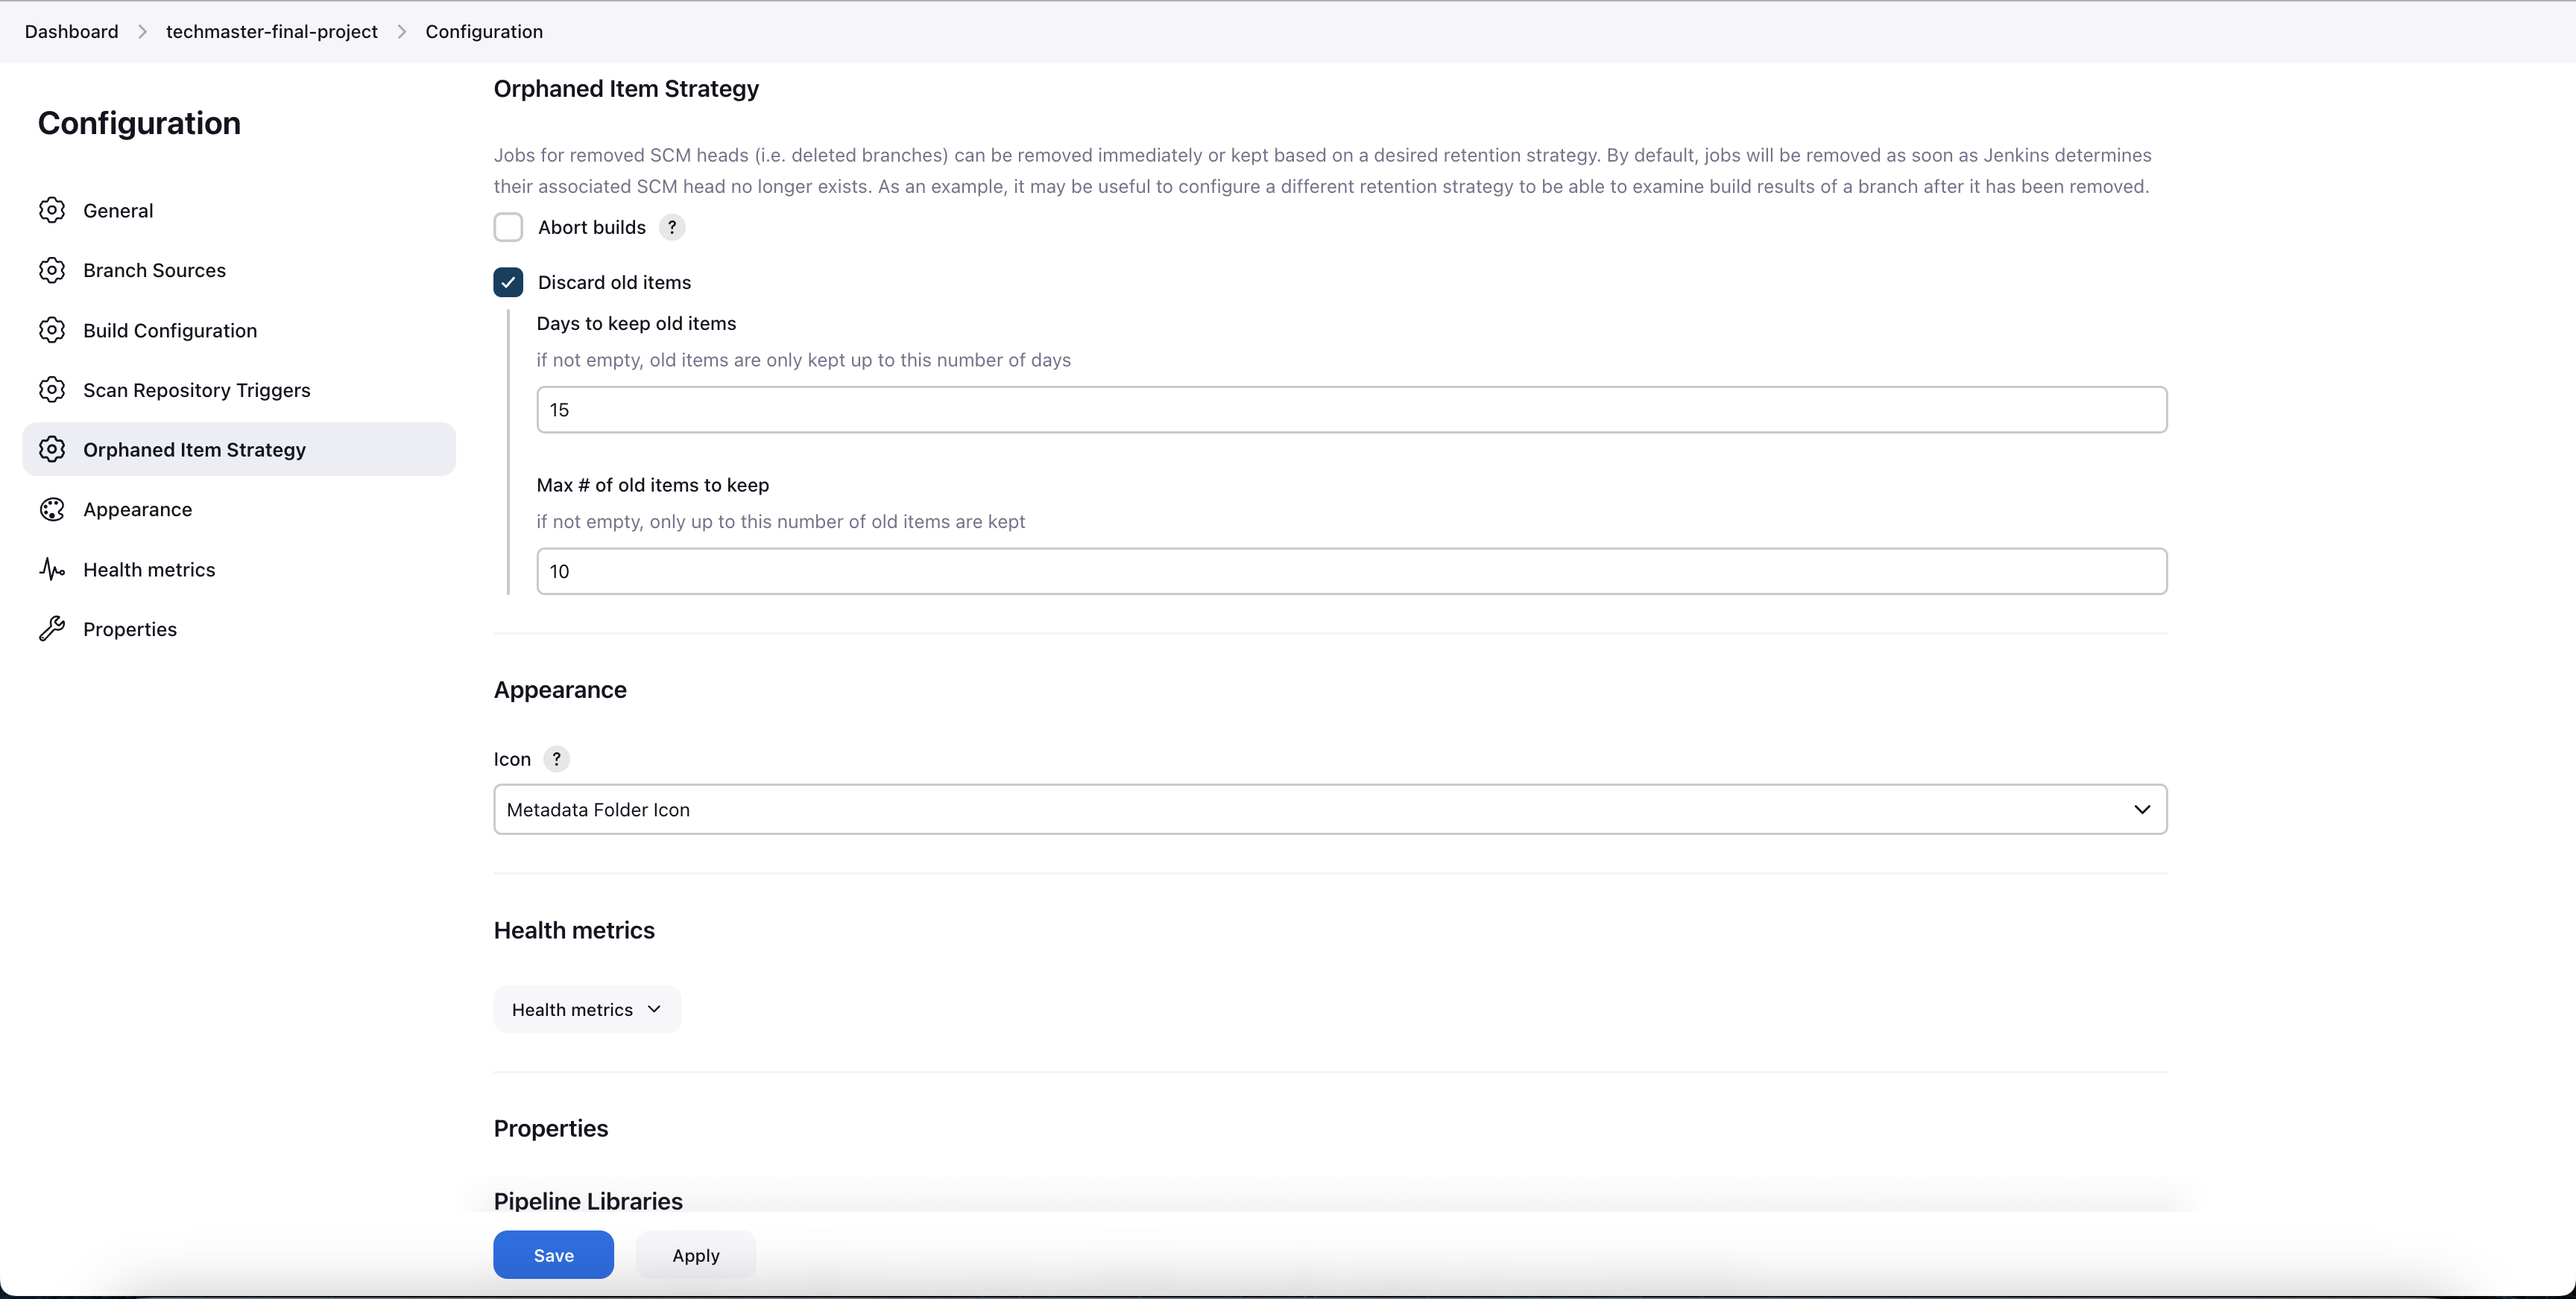
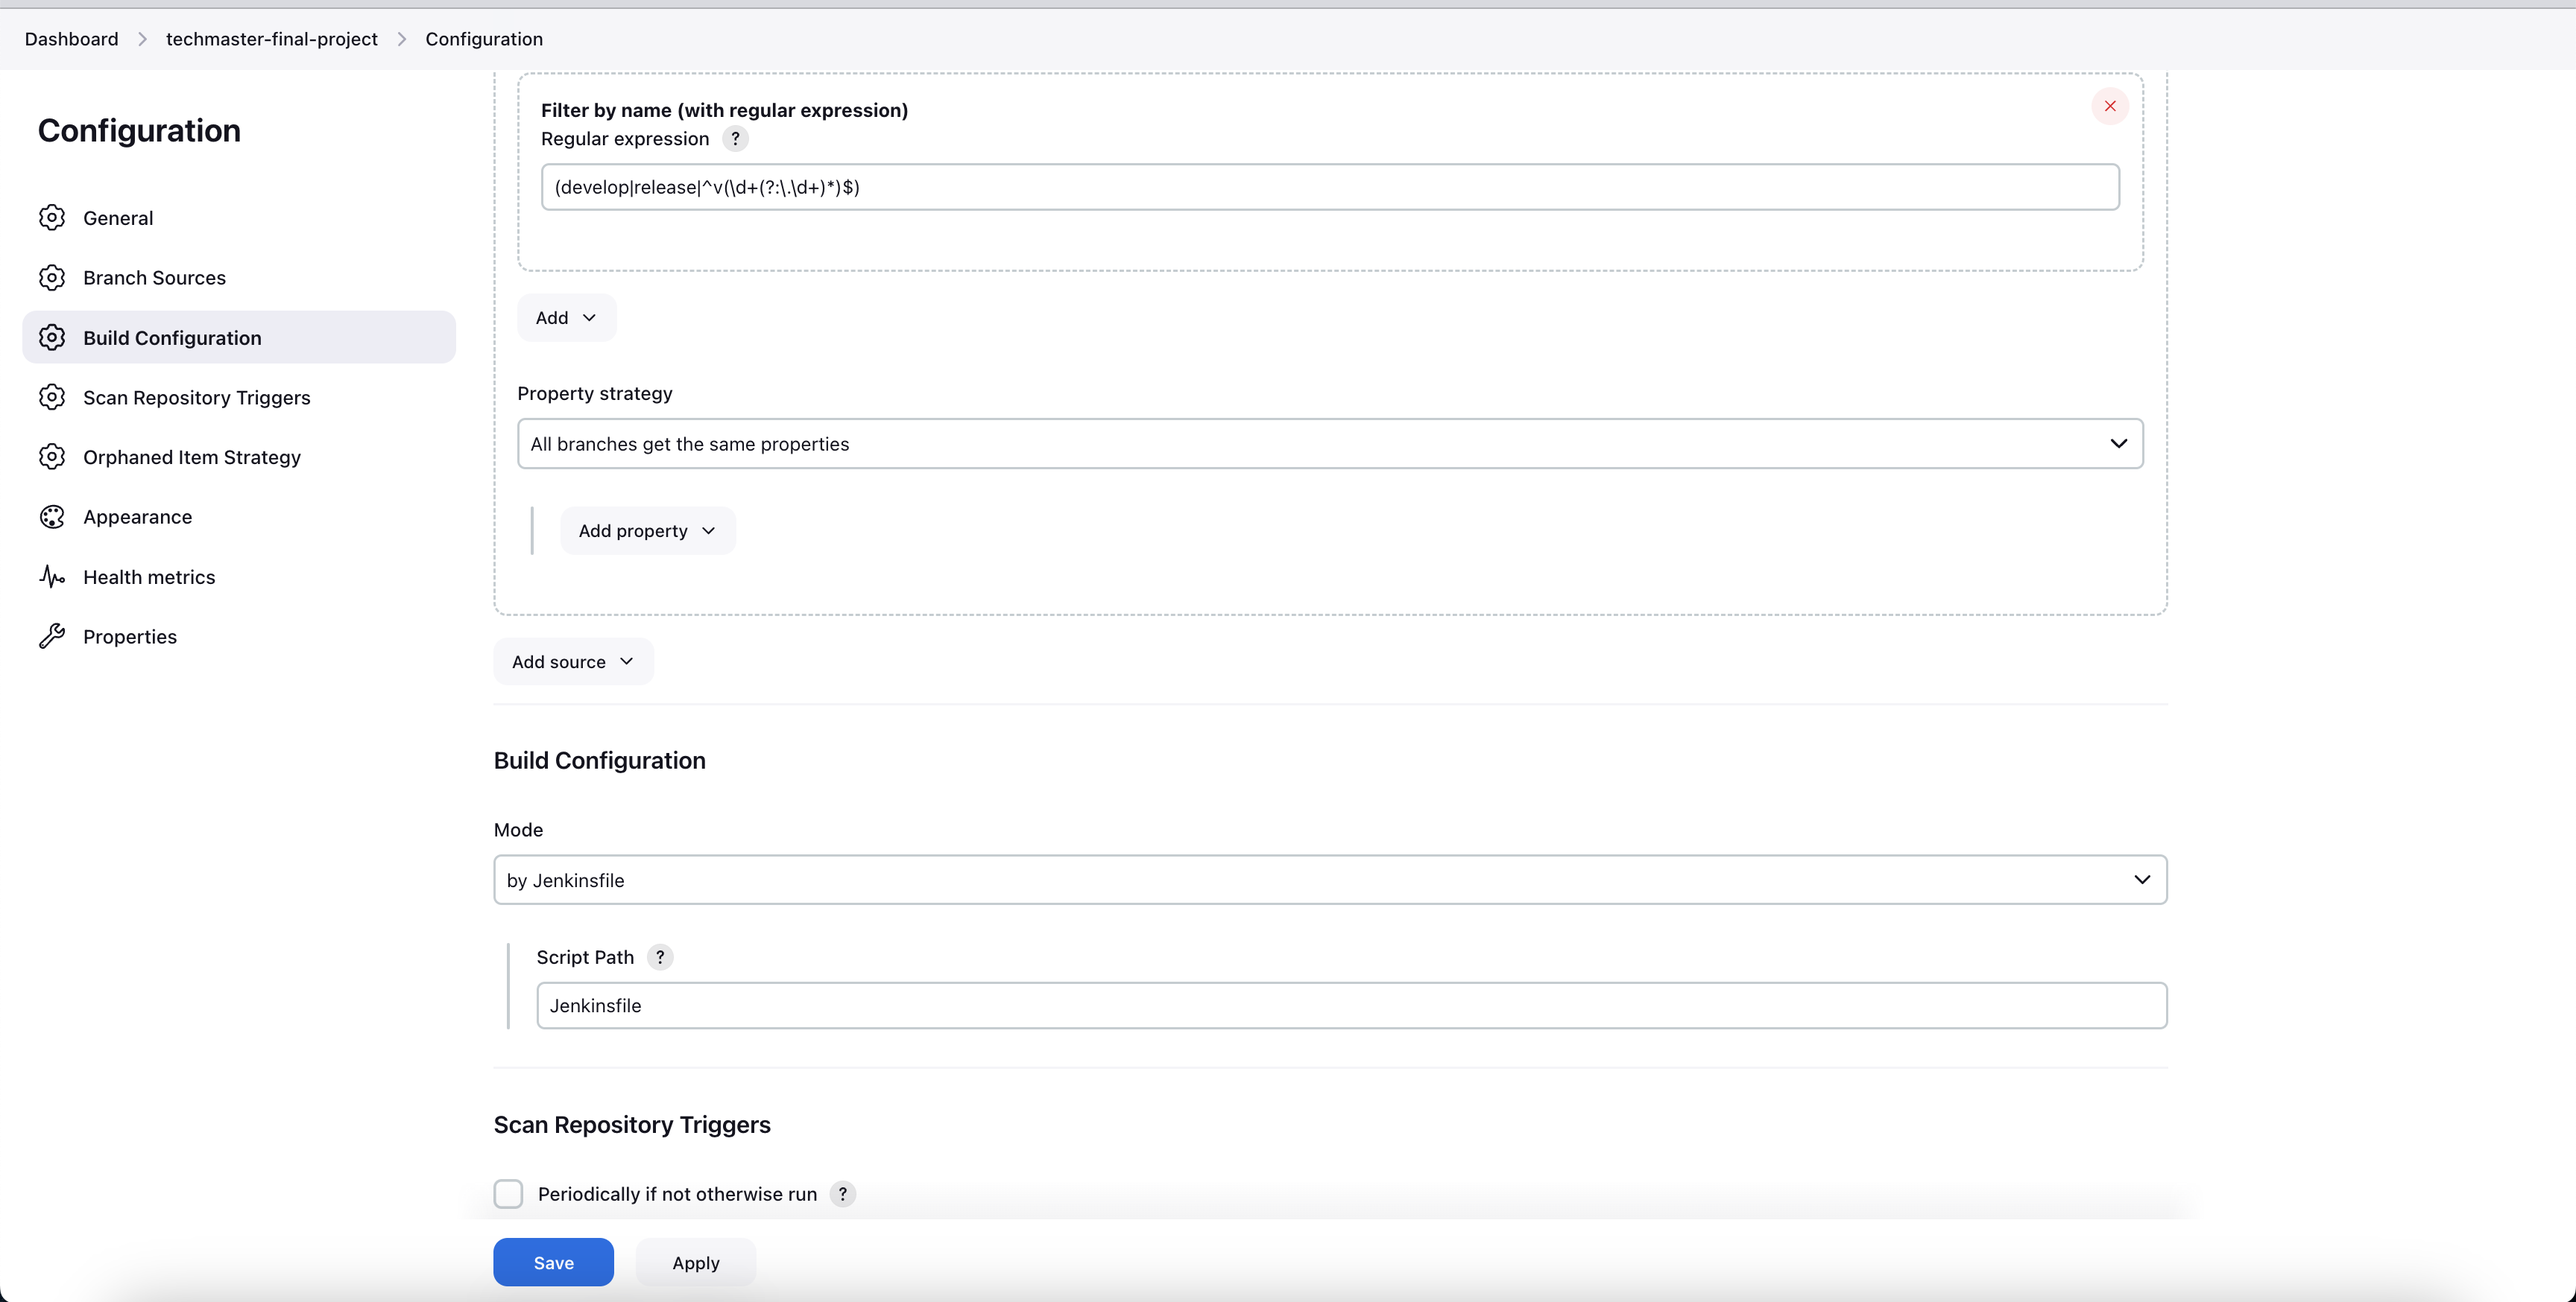
Update README and result images

diff --git a/README.md b/README.md
@@ -109,44 +109,63 @@
           - In the scopes section, we will select the whole "repo" scope and the "user:email" field in the "user" scope.
           ```
 
-3. **Jenkins Plugins**: We should install these necessary Jenkins plugins to easily support our in system operation.
-    ```
-    Instruction: http://<jenkins_server_ip>:8080 -> Jenkins Dashboard -> Manage Jenkins -> Manage Plugins -> Available tab.
-    Plugins:
-    1. Blue Ocean: Have a better visualization of pipelines, builds and deployments.
-    2. Pipeline Utility Steps: Provide utility steps for pipeline jobs.
-    3. Kubernetes CLI: Integrate K8S CLI with necessary commands to Jenkins.
-    ```
+3. **Jenkins Initial Admin Password**: We need to find out the initial admin password of Jenkins with following steps:
+   ```
+   Instruction
+   - Step 1: Connect to the CICD EC2 instance.
+   - Step 2: Run this command: 
+   $ docker exec -it jenkins-server /bin/sh -c "cat /var/jenkins_home/secrets/initialAdminPassword"
+   ```
 
-4. **Jenkins Credentials**: We need to add crucial credentials to Jenkins, which helps it have ability to deploy new
+4. **Jenkins Plugins**:
+    - Firstly, we need to install suggested plugins after loging in Jenkins with the initial admin password above.
+    - Secondly, we need to create a new admin account:
+      ```
+      Instruction:
+      - Username: admin
+      - Password: admin@123
+      - Full name: Admin
+      - Email: example@gmail.com
+      ```
+    - Besides installing suggested plugins from Jenkins, we should install these necessary Jenkins
+      plugins to easily support our in system operation.
+      ```
+      Instruction: http://<jenkins_server_ip>:8080 -> Jenkins Dashboard -> Manage Jenkins -> Plugins -> Available Plugins.
+      Plugins:
+      1. Blue Ocean: Have a better visualization of pipelines, builds and deployments.
+      2. Pipeline Utility Steps: Provide utility steps for pipeline jobs.
+      3. Kubernetes CLI: Integrate K8S CLI with necessary commands to Jenkins.
+      ```
+
+5. **Jenkins Credentials**: We need to add crucial credentials to Jenkins, which helps it have ability to deploy new
    images to Docker Hub and new changes to GitHub.
-    ```
-    Instruction: http://<jenkins_server_ip>:8080 -> Jenkins Dashboard -> Manage Jenkins -> Manage Credentials -> Global (or create a new folder) -> Add Credentials
-    Crucial credentials:
-    1. Docker Registry Username:
-        - Kind: Secret text
-        - ID: DOCKER_REGISTRY_USERNAME
-        - Secret: quoctran08
-    2. Docker Registry Password:
-        - Kind: Secret text
-        - ID: DOCKER_REGISTRY_PASSWORD
-        - Secret: <docker_hub_account_password>
-    3. GitHub Personal Access Token:
-        - Kind: Username with password
-        - ID: GITHUB_PERSONAL_ACCESS_TOKEN 
-        - Username: 1653072
-        - Password: <github_personal_access_token> (You generated this token in the previous step: "Techmaster|DevOps|FinalProject|Jenkins")
-    4. Final Project K8S Manifest Repository URL:
-        - Kind: Secret text
-        - ID: FINAL_PROJECT_MANIFEST_REPO_URL
-        - Secret: https://github.com/1653072/techmaster-final-project-obo-manifest.git
-    5. Final Project K8S Manifest Repository Name:
-        - Kind: Secret text
-        - ID: FINAL_PROJECT_MANIFEST_REPO_NAME
-        - Secret: techmaster-final-project-obo-manifest
-    ```
+   ```
+   Instruction: http://<jenkins_server_ip>:8080 -> Jenkins Dashboard -> Manage Jenkins -> Credentials -> Global (or create a new folder) -> Add Credentials
+   Crucial credentials:
+   1. Docker Registry Username:
+   - Kind: Secret text
+   - ID: DOCKER_REGISTRY_USERNAME
+   - Secret: quoctran08
+   2. Docker Registry Password:
+   - Kind: Secret text
+   - ID: DOCKER_REGISTRY_PASSWORD
+   - Secret: <docker_hub_account_password>
+   3. GitHub Personal Access Token:
+   - Kind: Username with password
+   - ID: GITHUB_PERSONAL_ACCESS_TOKEN
+   - Username: 1653072
+   - Password: <github_personal_access_token> (You generated this token in the previous step: "Techmaster|DevOps|FinalProject|Jenkins")
+   4. Final Project K8S Manifest Repository URL:
+   - Kind: Secret text
+   - ID: FINAL_PROJECT_MANIFEST_REPO_URL
+   - Secret: https://github.com/1653072/techmaster-final-project-obo-manifest.git
+   5. Final Project K8S Manifest Repository Name:
+   - Kind: Secret text
+   - ID: FINAL_PROJECT_MANIFEST_REPO_NAME
+   - Secret: techmaster-final-project-obo-manifest
+   ```
 
-5. **CICD Instance & GitHub connection**: To help CICD instance, especially ArgoCD, has essential permissions to access
+6. **CICD Instance & GitHub connection**: To help CICD instance, especially ArgoCD, has essential permissions to access
    our GitHub to pull and push code changes, we need to establish a new SSH key pair here.
    ```
    Instruction:
@@ -165,18 +184,21 @@
 
 ## Setup 3: Jenkins Multibranch Pipeline
 
-1. We need to create a new **Multibranch Pipeline** in Jenkins with these essential details:
-    - Display name: `techmaster-final-project`
+1. We need to create a new **Multibranch Pipeline** item in Jenkins with these essential details:
+    - Item name: `techmaster-final-project`.
+    - Display name: `techmaster-final-project`.
+    - Add source: `GitHub`.
     - Credentials: Select the `GitHub Personal Access Token` credential which was added in the previous step.
-    - Discover branches - strategy: `Exclude...`
-    - Discover pull requests from origin - strategy: `Merge the pull request with...`
+    - Repository HTTPS URL: `https://github.com/1653072/techmaster-final-project-obo.git`.
+    - Discover branches - strategy: `Exclude branches that are also filed as PRs`
+    - Discover pull requests from origin - strategy: `Merge the pull request with the current target branch revision`
     - Discover pull requests from forks:
-        - Strategy: `Merge the pull request with...`
-        - Trust: `From users with Admin...`
-    - Click `Add source`, then add the `Discover Tags` and the `Filter by name (with regular expression)` with this
-      value: `(develop|release|^v/\d+(?:).(d+)*)$)`
+        - Strategy: `Merge the pull request with the current target branch revision`
+        - Trust: `From users with Admin or Write permission`
+    - Click `Add`, then add the `Discover Tags` and the `Filter by name (with regular expression)` with this
+      value: `^(develop|release|v\d+\.\d+\.\d+)$`
     - Select the mode and script path with `Jenkinsfile`.
-    - Finally, we need to select `Discard old items` with `15` days and `10` max of old items.
+    - Finally, we need to select `Discard old items` with `7` days and `10` max of old items.
 
 2. To **see how Jenkins works**, we can add some random or test files to the master branch of the source code
    repository, then we will merge them to the `develop` and `release` branch.
@@ -212,7 +234,7 @@
         - Step 1: `http://<argocd_server_ip>:9080` -> `ArgoCD Dashboard` -> `+ New App`.
         - Step 2: In the general section, fill the application name by `techmaster-final-project-obo-dev`.
         - Step 3: In the general section, fill the project name by `default`.
-        - Step 4: In the general section, enable `Automatic` sync prolicy with the `Self Heal` mode.
+        - Step 4: In the general section, enable `Automatic` sync policy with the `Self Heal` mode.
         - Step 5: In the source section, fill the repository url
           by `git@github.com:1653072/techmaster-final-project-obo-manifest.git`.
         - Step 6: In the source section, fill the revision by `develop`.
@@ -224,7 +246,7 @@
         - Step 1: `http://<argocd_server_ip>:9080` -> `ArgoCD Dashboard` -> `+ New App`.
         - Step 2: In the general section, fill the application name by `techmaster-final-project-obo-prd`.
         - Step 3: In the general section, fill the project name by `default`.
-        - Step 4: In the general section, enable `Automatic` sync prolicy with the `Self Heal` mode.
+        - Step 4: In the general section, enable `Automatic` sync policy with the `Self Heal` mode.
         - Step 5: In the source section, fill the repository url
           by `git@github.com:1653072/techmaster-final-project-obo-manifest.git`.
         - Step 6: In the source section, fill the revision by `release`.
@@ -236,7 +258,7 @@
         - Step 1: `http://<argocd_server_ip>:9080` -> `ArgoCD Dashboard` -> `+ New App`.
         - Step 2: In the general section, fill the application name by `techmaster-final-project-obo-helm`.
         - Step 3: In the general section, fill the project name by `default`.
-        - Step 4: In the general section, enable `Automatic` sync prolicy with the `Self Heal` mode.
+        - Step 4: In the general section, enable `Automatic` sync policy with the `Self Heal` mode.
         - Step 5: In the source section, fill the repository url
           by `git@github.com:1653072/techmaster-final-project-obo-manifest.git`.
         - Step 6: In the source section, fill the revision by `master`.
